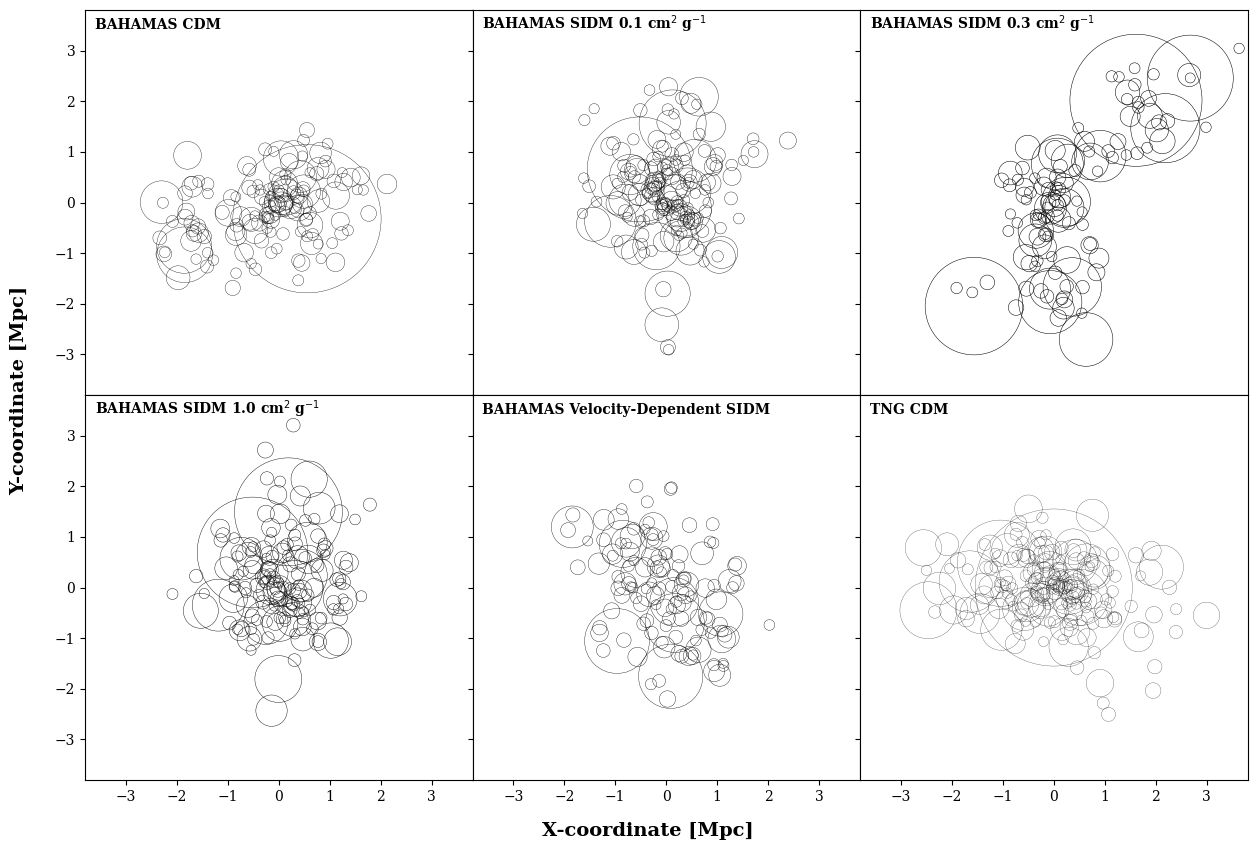
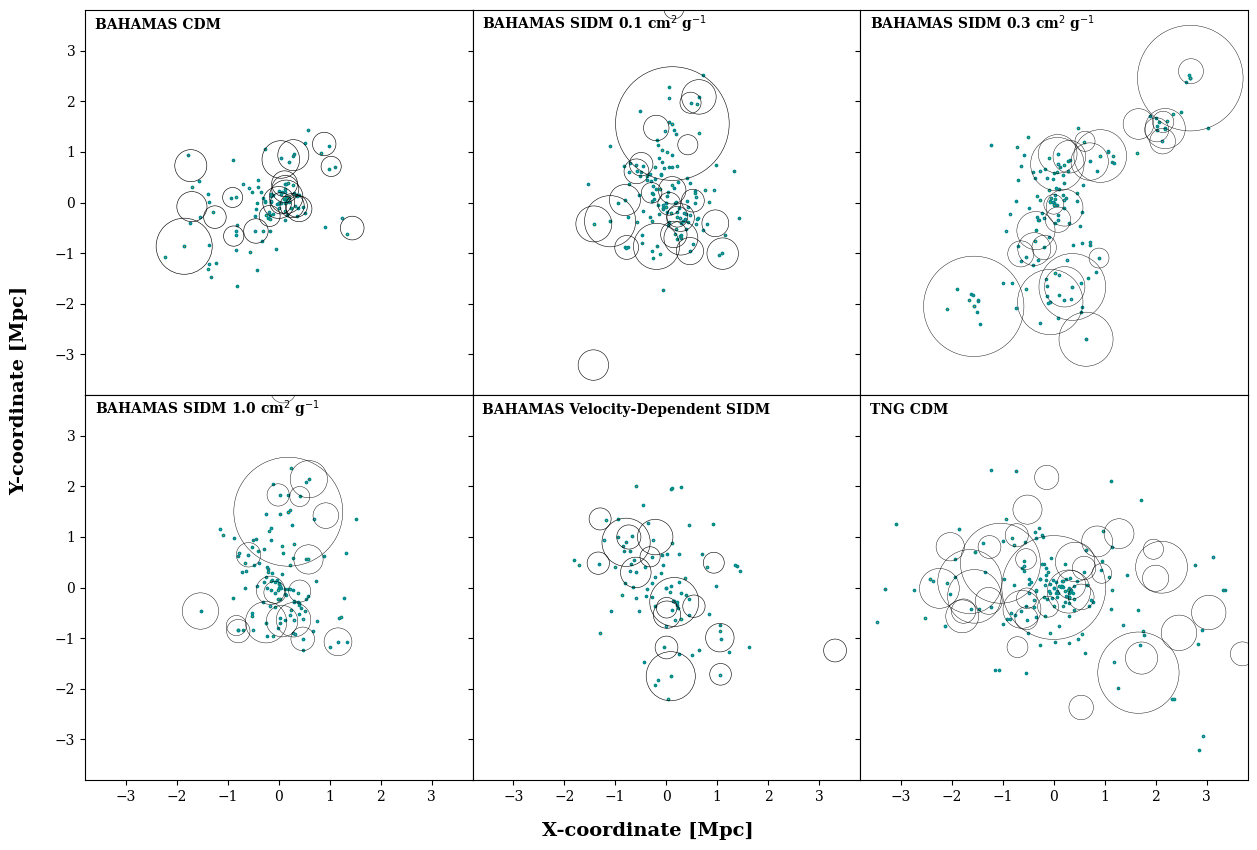
Plot updates, rockstar updates

diff --git a/rockstar/tng_sub_finder.py b/rockstar/tng_sub_finder.py
@@ -34,9 +34,9 @@ cluster_id = args.cluster_ID
 print('Processing Cluster ' + cluster_id)
 
 ### Download particle data from TNG
-halo_cutout_url = f'http://www.tng-project.org/api/TNG300-1/snapshots/99/halos/' + cluster_id + '/cutout.hdf5' 
-params={'dm':'Coordinates,ParticleIDs,Velocities'}
-fName = '/projects/mccleary_group/habjan.e/TNG/Data/TNG_data/halo_cutouts_dm_' + cluster_id
+#halo_cutout_url = f'http://www.tng-project.org/api/TNG300-1/snapshots/99/halos/' + cluster_id + '/cutout.hdf5' 
+#params={'dm':'Coordinates,ParticleIDs,Velocities'}
+fName = '/projects/mccleary_group/habjan.e/TNG/Data/TNG_data/5r200_data/dm_within_5r200_' + cluster_id
 #cutout = iapi.get(halo_cutout_url, params = params, fName = fName)
 
 ### Import downloaded cluster
@@ -55,22 +55,22 @@ coordinates = coordinates
 
 ### Correct coordinates for TNG simulation coordiantes
 cluster_id = np.int64(cluster_id)
-coordinates = TNG_DA.coord_cm_corr(cluster_ind = cluster_id, coordinates = coordinates) 
+coordinates = TNG_DA.coord_cm_corr(cluster_ind = cluster_id, coordinates = coordinates, boxsize = 205000) 
 coordinates = coordinates * 10**-3     #Convert to Mpc/h
 
-keep, rcut_map, pix = TNG_DA.healpix_radial_density_cut(
-     coordinates,
-     nside=5,
-     nbins=35,
-     density_thresh=1.25 * (4661 / 50),
-     min_counts_per_bin=1,
-     min_points_per_pix=50,
- )
+#keep, rcut_map, pix = TNG_DA.healpix_radial_density_cut(
+#     coordinates,
+#     nside=5,
+#     nbins=35,
+#     density_thresh=1.25 * (4661 / 50),
+#     min_counts_per_bin=1,
+#     min_points_per_pix=50,
+# )
 
-coordinates = coordinates[keep]
-masses = masses[keep]
-ids = ids[keep]
-velocities = velocities[keep]
+#coordinates = coordinates[keep]
+#masses = masses[keep]
+#ids = ids[keep]
+#velocities = velocities[keep]
 
 ### Load shared ROCKSTAR library
 
@@ -153,7 +153,7 @@ member_fname_b   = member_fname.encode("utf-8")
 
 # Minimum number of particles in a subhalo (mass resolution matched with bahamas)
 
-min_particles_in_subhalo = 4661
+min_particles_in_subhalo = 18644
 
 # FoF fraction
 

diff --git a/rockstar/bahamas_sub_finder.py b/rockstar/bahamas_sub_finder.py
@@ -40,13 +40,17 @@ print('Processing Cluster ' + cluster_id + ' in ' + dm_folder)
 data = np.load("/projects/mccleary_group/habjan.e/TNG/Data/" + dm_folder + "/GrNm_" + cluster_id + ".npz")
 
 ### acount for periodic bounary conditions
-L = np.max(data['dm_pos'])
-halfbox = L / 2
+#L = np.max(data['dm_pos'])
+#halfbox = L / 2
+#difpos = np.subtract(data['dm_pos'], data['CoP'])
+#centered_pos = np.where( abs(difpos) > halfbox, abs(difpos)- L , difpos)
+
+boxsize = 400
 difpos = np.subtract(data['dm_pos'], data['CoP'])
-centered_pos = np.where( abs(difpos) > halfbox, abs(difpos)- L , difpos)
+difpos = (difpos + 0.5 * boxsize) % boxsize - 0.5 * boxsize
 
 # c Mpc / h 
-coordinates = centered_pos
+coordinates = difpos
 # km / s
 velocities = data['dm_vel']
 # solar masses
@@ -54,19 +58,19 @@ masses = data['dm_mass'] * data['h']
 ids = data['dm_ID']
 
 # Remove extrenuous particles
-keep, rcut_map, pix = TNG_DA.healpix_radial_density_cut(
-     coordinates,
-     nside=5,
-     nbins=35,
-     density_thresh=1.25,
-     min_counts_per_bin=1,
-     min_points_per_pix=50,
- )
+#keep, rcut_map, pix = TNG_DA.healpix_radial_density_cut(
+ #    coordinates,
+  #   nside=5,
+   #  nbins=35,
+#     density_thresh=1.25,
+ #    min_counts_per_bin=1,
+  #   min_points_per_pix=50,
+ #)
 
-coordinates = coordinates[keep]
-masses = masses[keep]
-ids = ids[keep]
-velocities = velocities[keep]
+#coordinates = coordinates[keep]
+#masses = masses[keep]
+#ids = ids[keep]
+#velocities = velocities[keep]
 
 ### Load shared ROCKSTAR library
 
@@ -145,7 +149,7 @@ member_fname_b   = member_fname.encode("utf-8")
 
 # Minimum number of particles in a subhalo (mass resolution matched with tng)
 
-min_particles_in_subhalo = 50
+min_particles_in_subhalo = 200
 
 # FoF fraction
 

diff --git a/TNG_DA.py b/TNG_DA.py
@@ -97,7 +97,7 @@ def get_cluster_props(cluster_ind):
     
     return pos, vel, groups, subhalo_masses, subhalo_type, h, halo_mass
 
-def coord_cm_corr(cluster_ind, coordinates):
+def coord_cm_corr(cluster_ind, coordinates, boxsize = 205000):
 
     """
     Corrects for TNG coordinates into cluster-centric coordinates
@@ -111,19 +111,10 @@ def coord_cm_corr(cluster_ind, coordinates):
     """
 
     halo_center = iapi.getHaloField(field ='GroupPos', simulation=sim, snapshot=99, fileName=TNG_data_path+'TNG_data/'+sim+'_GroupPos', rewriteFile=0)
-    h = simdata['hubble']
-
     pos_comoving = halo_center[cluster_ind, :] ## position in units c * kpc / h
-    cm_pos = pos_comoving #/ h
 
-    sub_uncorrected_pos = coordinates #/ h
-    L = np.max(sub_uncorrected_pos)
-    halfbox = L / 2
-
-    difpos = np.subtract(sub_uncorrected_pos, cm_pos)
-    #Replace values that are affected by boundary conditions
-    difpos = np.where( abs(difpos) > halfbox, abs(difpos)- L , difpos)
-    distsq = np.sum(np.square(difpos),axis=1)
+    difpos = np.subtract(coordinates, pos_comoving)
+    difpos = (difpos + 0.5 * boxsize) % boxsize - 0.5 * boxsize
 
     return difpos
 

diff --git a/rockstar/tng_subhalo_matching.py b/rockstar/tng_subhalo_matching.py
@@ -37,7 +37,8 @@ sub_ind = np.where(Group_num == cluster_in)[0]
 sub_lens = SubhaloLenType[sub_ind, :]
 
 # Import TNG particle IDs for the FoF halo
-fName = f'/projects/mccleary_group/habjan.e/TNG/Data/TNG_data/halo_cutouts_dm_{cluster_in}.hdf5'
+#fName = f'/projects/mccleary_group/habjan.e/TNG/Data/TNG_data/halo_cutouts_dm_{cluster_in}.hdf5'
+fName = f'/projects/mccleary_group/habjan.e/TNG/Data/TNG_data/5r200_data/dm_within_5r200_{cluster_in}.hdf5'
 
 with h5py.File(fName, 'r') as f:
 
